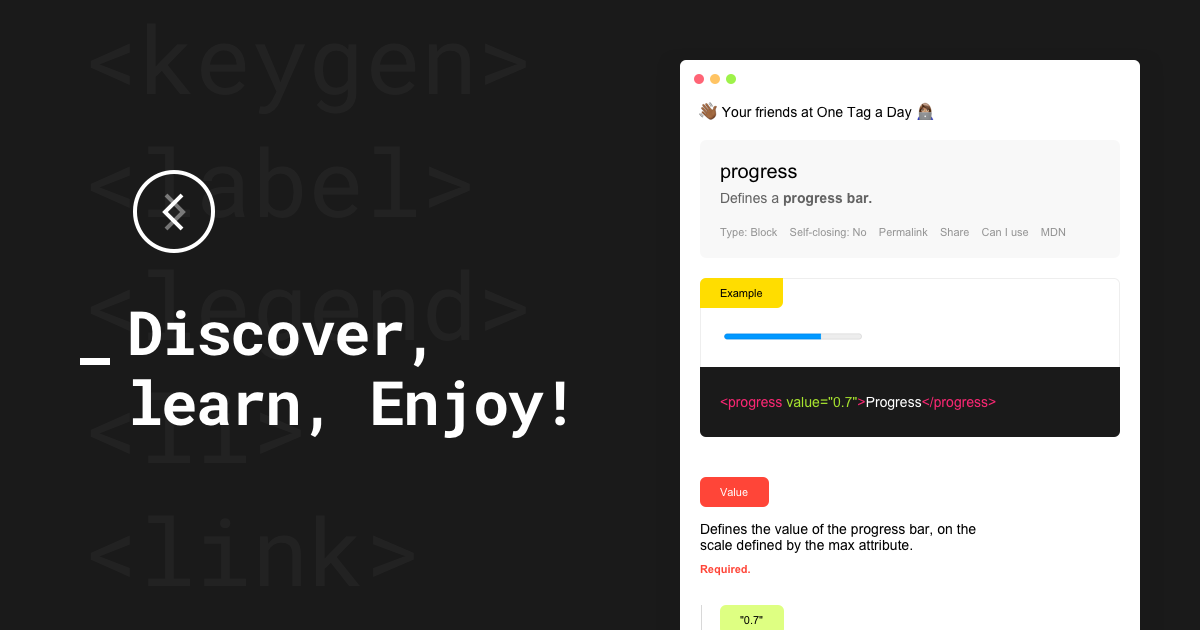
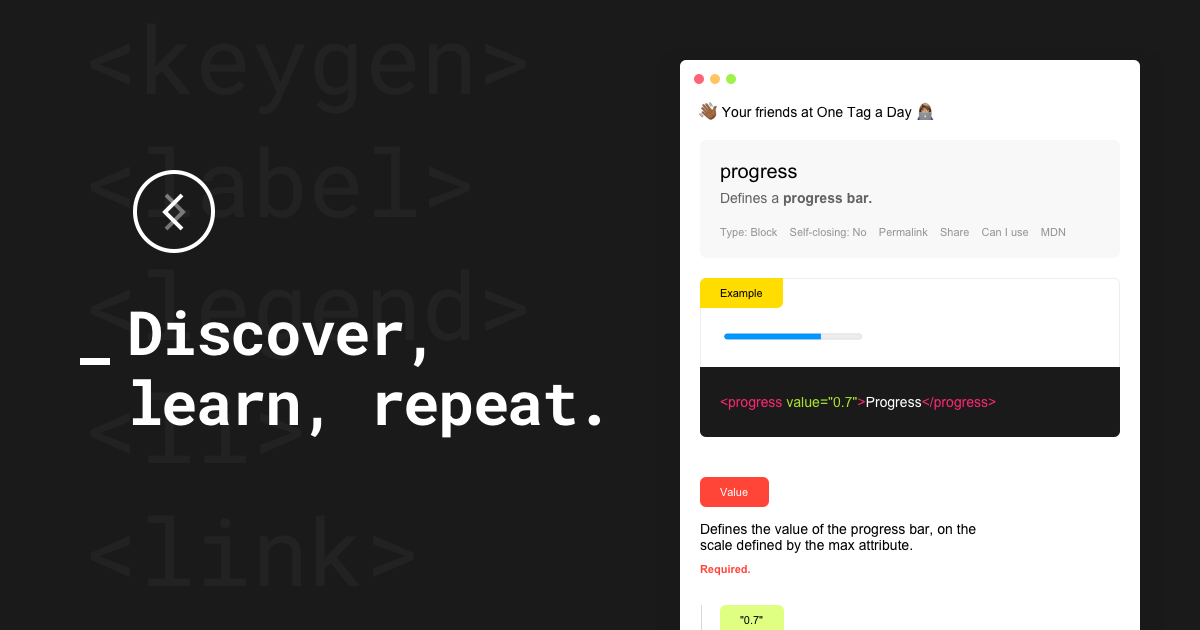
Automated commit at 2017-08-18 09:05:18 UTC by middleman-deploy 2.0.0-alpha

Changed region(s): [[0.3083, 0.6032, 0.4933, 0.6937]]

diff --git a/index.html b/index.html
@@ -1,4 +1,4 @@
-<!DOCTYPE html><html><head><title>One Tag a Day</title><meta content="text/html; charset=UTF-8" http-equiv="Content-Type" /><meta charset="utf-8" /><meta content="Sign up and discover a new HTML tag each day." name="description" /><meta content="width=device-width, initial-scale=1.0, maximum-scale=1, user-scalable=0" name="viewport" /><meta content="#ffffff" name="theme-color" /><meta content="One Tag a Day" property="og:site_name" /><meta content="One Tag a Day" property="og:title" /><meta content="website" property="og:type" /><meta content="https://onetagaday.com" property="og:url" /><meta content="Sign up and discover a new HTML tag each day." property="og:description" /><meta content="https://onetagaday.com/images/og-image.png" property="og:image" /><link href="favicon.ico" rel="icon" type="image/ico" /><meta content="authenticity_token" name="csrf-param" /><meta name="csrf-token" /><link href="/stylesheets/all.css" rel="stylesheet" /></head><body><div class="desktop"><div class="flex"><div class="left"><img src="/images/logo.svg" alt="Logo" /><div class="dash"></div><h1>Discover, learn, repeat.</h1><p class="subtitle">Did you know about <a href="http://htmlreference.io/element/kbd/" style="color:#F92672;" target="_blank">&lt;kbd&gt;</a>? Sign up and discover a new HTML tag each day.</p><!-- Begin MailChimp Signup Form -->
+<!DOCTYPE html><html><head><title>One Tag a Day</title><meta content="text/html; charset=UTF-8" http-equiv="Content-Type" /><meta charset="utf-8" /><meta content="Sign up to receive a new HTML tag each day." name="description" /><meta content="width=device-width, initial-scale=1.0, maximum-scale=1, user-scalable=0" name="viewport" /><meta content="#ffffff" name="theme-color" /><meta content="One Tag a Day" property="og:site_name" /><meta content="One Tag a Day" property="og:title" /><meta content="website" property="og:type" /><meta content="https://onetagaday.com" property="og:url" /><meta content="Sign up to receive a new HTML tag each day." property="og:description" /><meta content="https://onetagaday.com/images/og-image.png" property="og:image" /><link href="favicon.ico" rel="icon" type="image/ico" /><meta content="authenticity_token" name="csrf-param" /><meta name="csrf-token" /><link href="/stylesheets/all.css" rel="stylesheet" /></head><body><div class="desktop"><div class="flex"><div class="left"><img src="/images/logo.svg" alt="Logo" /><div class="dash"></div><h1>Discover, learn, repeat.</h1><p class="subtitle">Did you know about <a href="http://htmlreference.io/element/kbd/" style="color:#F92672;" target="_blank">&lt;kbd&gt;</a>? Sign up to receive a new HTML tag each day.</p><!-- Begin MailChimp Signup Form -->
 </style>
 <div id="mc_embed_signup">
 <form action="//muxumuxu.us14.list-manage.com/subscribe/post?u=eccf5f72255b20ee4b052a622&amp;id=f0b844d57b" method="post" id="mc-embedded-subscribe-form" name="mc-embedded-subscribe-form" class="validate" target="_blank" novalidate>

diff --git a/fr/index.html b/fr/index.html
@@ -1,4 +1,4 @@
-<!DOCTYPE html><html><head><title>One Tag a Day</title><meta content="text/html; charset=UTF-8" http-equiv="Content-Type" /><meta charset="utf-8" /><meta content="Sign up and discover a new HTML tag each day." name="description" /><meta content="width=device-width, initial-scale=1.0, maximum-scale=1, user-scalable=0" name="viewport" /><meta content="#ffffff" name="theme-color" /><meta content="One Tag a Day" property="og:site_name" /><meta content="One Tag a Day" property="og:title" /><meta content="website" property="og:type" /><meta content="https://onetagaday.com" property="og:url" /><meta content="Sign up and discover a new HTML tag each day." property="og:description" /><meta content="https://onetagaday.com/images/og-image.png" property="og:image" /><link href="favicon.ico" rel="icon" type="image/ico" /><meta content="authenticity_token" name="csrf-param" /><meta name="csrf-token" /><link href="/stylesheets/all.css" rel="stylesheet" /></head><body><div class="desktop"><div class="flex"><div class="left"><img src="/images/logo.svg" alt="Logo" /><div class="dash"></div><h1>Bienvenue !</h1><p class="subtitle">Did you know about <a href="http://htmlreference.io/element/kbd/" style="color:#F92672;" target="_blank">&lt;kbd&gt;</a>? Sign up and discover a new HTML tag each day.</p><!-- Begin MailChimp Signup Form -->
+<!DOCTYPE html><html><head><title>One Tag a Day</title><meta content="text/html; charset=UTF-8" http-equiv="Content-Type" /><meta charset="utf-8" /><meta content="Sign up to receive a new HTML tag each day." name="description" /><meta content="width=device-width, initial-scale=1.0, maximum-scale=1, user-scalable=0" name="viewport" /><meta content="#ffffff" name="theme-color" /><meta content="One Tag a Day" property="og:site_name" /><meta content="One Tag a Day" property="og:title" /><meta content="website" property="og:type" /><meta content="https://onetagaday.com" property="og:url" /><meta content="Sign up to receive a new HTML tag each day." property="og:description" /><meta content="https://onetagaday.com/images/og-image.png" property="og:image" /><link href="favicon.ico" rel="icon" type="image/ico" /><meta content="authenticity_token" name="csrf-param" /><meta name="csrf-token" /><link href="/stylesheets/all.css" rel="stylesheet" /></head><body><div class="desktop"><div class="flex"><div class="left"><img src="/images/logo.svg" alt="Logo" /><div class="dash"></div><h1>Bienvenue !</h1><p class="subtitle">Did you know about <a href="http://htmlreference.io/element/kbd/" style="color:#F92672;" target="_blank">&lt;kbd&gt;</a>? Sign up to receive a new HTML tag each day.</p><!-- Begin MailChimp Signup Form -->
 </style>
 <div id="mc_embed_signup">
 <form action="//muxumuxu.us14.list-manage.com/subscribe/post?u=eccf5f72255b20ee4b052a622&amp;id=f0b844d57b" method="post" id="mc-embedded-subscribe-form" name="mc-embedded-subscribe-form" class="validate" target="_blank" novalidate>
